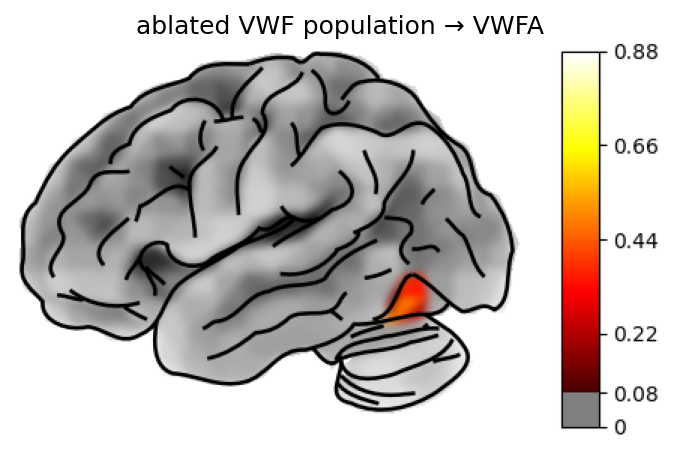
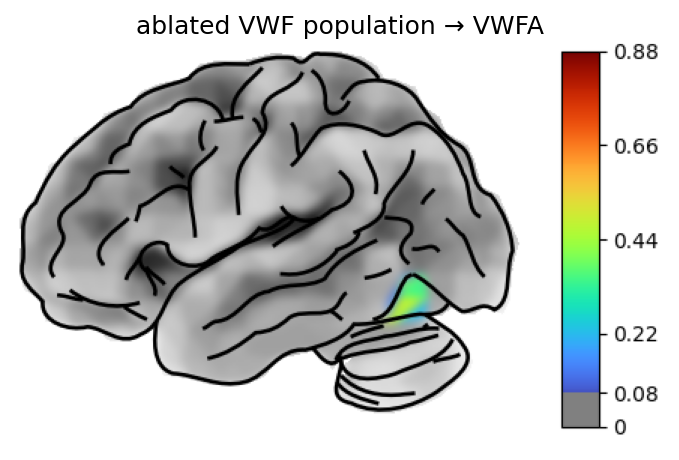
Switch brain colorscale to turbo for distinct high-end gradient (0.4 vs 0.53 now separable)

Changed region(s): [[0.8041, 0.0913, 0.8969, 0.8522], [0.5567, 0.5783, 0.6495, 0.7304]]

diff --git a/brainscore/visualization/brain_map.py b/brainscore/visualization/brain_map.py
@@ -343,10 +343,10 @@ def quickbrain_outline_map(parcel_values: np.ndarray, *, n_parcels: int = 1000,
     import matplotlib.pyplot as plt
 
     img = parcels_to_nifti(parcel_values, n_parcels=n_parcels, networks=networks)
-    # White figure card + a bright warm sequential scale: the brain outline and
-    # low-activity cortex stay visible (a dark scale on the dark site did not),
-    # and dark axis/colorbar text is legible on white.
-    quickbrain_kwargs.setdefault('cmap', 'YlOrRd')
+    # White figure card + 'turbo': a single continuous spectrum (blue→…→red) that
+    # stays distinct across its whole range — unlike YlOrRd, which saturates to a
+    # near-uniform dark red at the top (0.4 vs 0.53 were indistinguishable).
+    quickbrain_kwargs.setdefault('cmap', 'turbo')
     quickbrain_kwargs.setdefault('background', 'white')
     result = quickbrain.plot_brain(img, **quickbrain_kwargs)
     fig = result if hasattr(result, 'savefig') else plt.gcf()

diff --git a/website/make_vwfa_glass.py b/website/make_vwfa_glass.py
@@ -43,7 +43,7 @@ def main():
     # White figure card, warm 'hot' overlay on the grey curvature brain, dark
     # legible text. quickbrain only supports lateral/medial views.
     fig = quickbrain.plot_brain(blob, hemi='left', view='lateral', threshold=0.08,
-                                colorbar=True, cmap='hot', background='white',
+                                colorbar=True, cmap='turbo', background='white',
                                 title='ablated VWF population → VWFA')
     f = fig if hasattr(fig, 'savefig') else plt.gcf()
     f.savefig(out, dpi=150, bbox_inches='tight')
